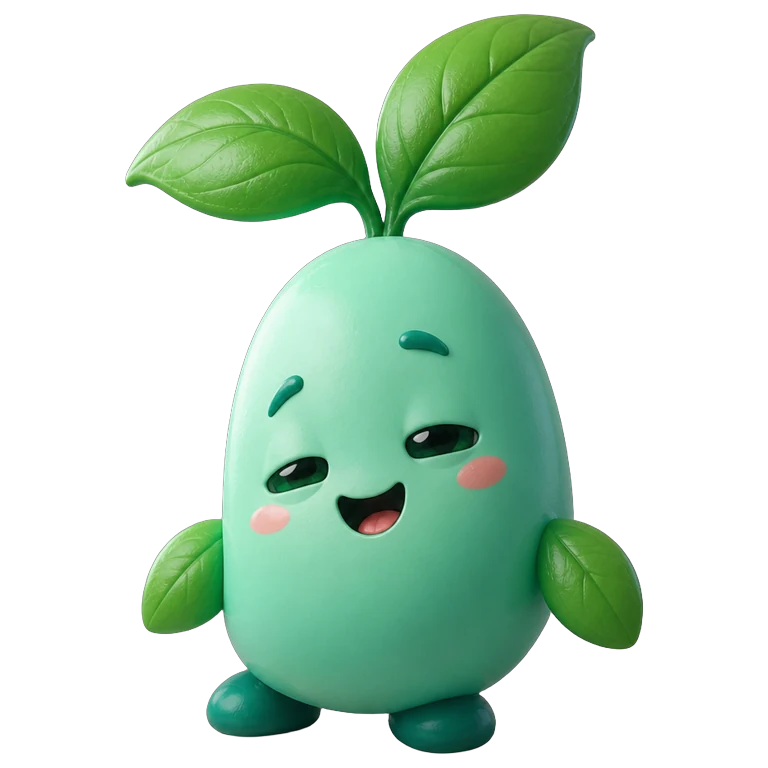
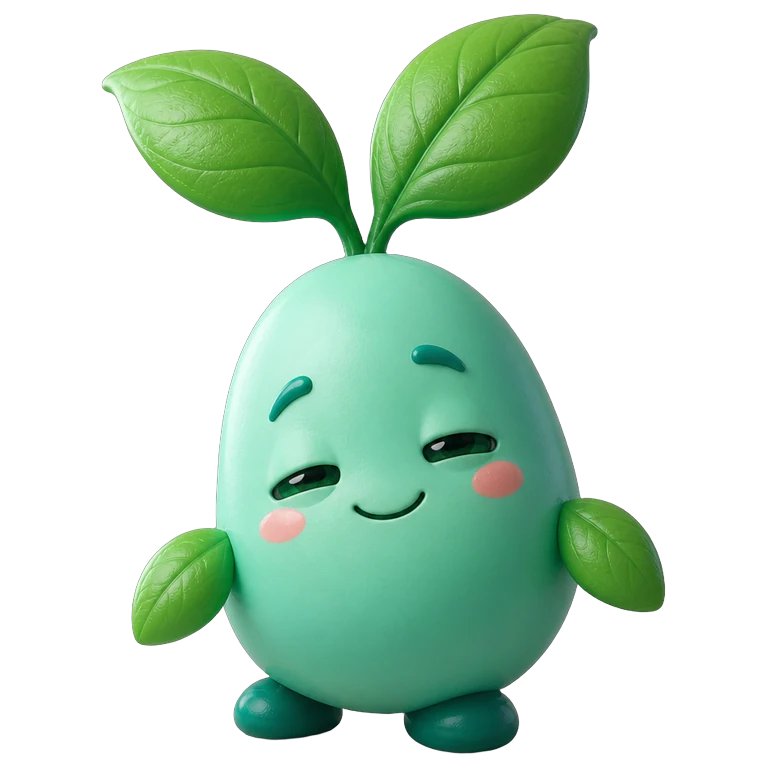
Redesign pet art and add seasonal V5 idle looks
Replace the disliked pet still with a softer lean-in reaction.
Ship winter/spring/summer/autumn/newyear/halloween idle WebPs and
route art idle through /mascot/art/{skin}/idle.webp when available.

diff --git a/src/lib/mascot-art.ts b/src/lib/mascot-art.ts
@@ -4,7 +4,7 @@
 
 import type { MascotPose } from "@/components/MascotSvg";
 import type { MascotGesture } from "@/lib/mascot-liveness";
-import type { MascotRendererMode } from "@/lib/mascot-skin";
+import type { MascotRendererMode, MascotSkinId } from "@/lib/mascot-skin";
 
 export const MASCOT_ART_POSES = [
   "idle",
@@ -17,16 +17,22 @@ export const MASCOT_ART_POSES = [
 
 export type MascotArtPoseId = (typeof MASCOT_ART_POSES)[number] | "pet";
 
+/** Skins that ship a dedicated idle still under /mascot/art/{skin}/idle.webp */
+export const MASCOT_ART_SEASONAL_IDLE = new Set<MascotSkinId>([
+  "winter",
+  "spring",
+  "summer",
+  "autumn",
+  "newyear",
+  "halloween",
+]);
+
 /** Gesture → art still (pet has a dedicated frame; others keep the current pose). */
 const GESTURE_ART: Partial<Record<MascotGesture, MascotArtPoseId>> = {
   pet: "pet",
   react: "cheer",
   wave: "cheer",
 };
-
-export function mascotArtUrl(pose: MascotArtPoseId): string {
-  return `/mascot/art/${pose}.webp`;
-}
 
 /** Resolve which art still to show for pose + optional one-shot gesture. */
 export function resolveMascotArtPose(
@@ -38,6 +44,20 @@ export function resolveMascotArtPose(
     if (mapped) return mapped;
   }
   return pose;
+}
+
+/**
+ * Default poses live at /mascot/art/{pose}.webp.
+ * Seasonal idle skins: /mascot/art/{skin}/idle.webp (fallback to default pose stills).
+ */
+export function mascotArtUrl(
+  pose: MascotArtPoseId,
+  skin: MascotSkinId = "default",
+): string {
+  if (pose === "idle" && skin !== "default" && MASCOT_ART_SEASONAL_IDLE.has(skin)) {
+    return `/mascot/art/${skin}/idle.webp`;
+  }
+  return `/mascot/art/${pose}.webp`;
 }
 
 /** Art wins in auto when assets ship with the app (always true for built-in V5 set). */

diff --git a/src/components/MascotArt.tsx b/src/components/MascotArt.tsx
@@ -7,6 +7,7 @@ import {
 } from "react";
 import { mascotMotionClass, type MascotSvgProps } from "@/components/MascotSvg";
 import { mascotArtUrl, resolveMascotArtPose } from "@/lib/mascot-art";
+import type { MascotSkinId } from "@/lib/mascot-skin";
 
 const SIZE_PX = {
   sm: 44,
@@ -16,6 +17,7 @@ const SIZE_PX = {
 } as const;
 
 export type MascotArtProps = Omit<MascotSvgProps, "skin"> & {
+  skin?: MascotSkinId;
   onFail?: () => void;
 };
 
@@ -25,6 +27,7 @@ export type MascotArtProps = Omit<MascotSvgProps, "skin"> & {
 export function MascotArt({
   pose = "idle",
   gesture = "none",
+  skin = "default",
   size = "md",
   className,
   title = "Талисман Calorie Vision",
@@ -40,7 +43,7 @@ export function MascotArt({
 }: MascotArtProps) {
   const px = SIZE_PX[size];
   const artPose = resolveMascotArtPose(pose, gesture);
-  const src = mascotArtUrl(artPose);
+  const src = mascotArtUrl(artPose, skin);
 
   const motion = animate ? mascotMotionClass(pose) : "";
   const gestureActive = gesture !== "none" && animate;
@@ -77,6 +80,7 @@ export function MascotArt({
     >
       {/* eslint-disable-next-line @next/next/no-img-element -- static pose swaps from /public */}
       <img
+        key={src}
         src={src}
         alt=""
         width={px}

diff --git a/src/lib/mascot-art.test.ts b/src/lib/mascot-art.test.ts
@@ -12,6 +12,13 @@ describe("mascot-art", () => {
     assert.equal(mascotArtUrl("pet"), "/mascot/art/pet.webp");
   });
 
+  test("mascotArtUrl uses seasonal idle folders", () => {
+    assert.equal(mascotArtUrl("idle", "winter"), "/mascot/art/winter/idle.webp");
+    assert.equal(mascotArtUrl("idle", "halloween"), "/mascot/art/halloween/idle.webp");
+    assert.equal(mascotArtUrl("cheer", "winter"), "/mascot/art/cheer.webp");
+    assert.equal(mascotArtUrl("pet", "autumn"), "/mascot/art/pet.webp");
+  });
+
   test("resolveMascotArtPose maps pet/react gestures", () => {
     assert.equal(resolveMascotArtPose("idle", "none"), "idle");
     assert.equal(resolveMascotArtPose("idle", "pet"), "pet");

diff --git a/src/components/MascotRenderer.tsx b/src/components/MascotRenderer.tsx
@@ -40,7 +40,7 @@ export function MascotRenderer({ skin, renderer, ...props }: MascotRendererProps
 
   useEffect(() => {
     setArtFailed(false);
-  }, [mode, size]);
+  }, [mode, size, resolvedSkin]);
 
   useEffect(() => {
     if (mode === "svg" || preferArt) {
@@ -73,7 +73,9 @@ export function MascotRenderer({ skin, renderer, ...props }: MascotRendererProps
   );
 
   if (preferArt) {
-    return <MascotArt {...props} size={size} onFail={() => setArtFailed(true)} />;
+    return (
+      <MascotArt {...props} skin={resolvedSkin} size={size} onFail={() => setArtFailed(true)} />
+    );
   }
 
   if (useRive) {

diff --git a/src/app/dev/mascot-preview/MascotFuturePreviewClient.tsx b/src/app/dev/mascot-preview/MascotFuturePreviewClient.tsx
@@ -84,7 +84,7 @@ export default function MascotFuturePreviewPage() {
           </p>
           <h1 className="mt-2 text-2xl font-extrabold text-stone-900">Живые анимации</h1>
           <p className="mx-auto mt-2 max-w-md text-sm text-stone-600">
-            Рисованный soft-3D персонаж (art). auto = art на md+, SVG на sm. Сезоны пока в режиме svg.
+            Рисованный soft-3D (art) + сезонные idle. auto = art на md+. Pet перерисован.
           </p>
         </header>
 
